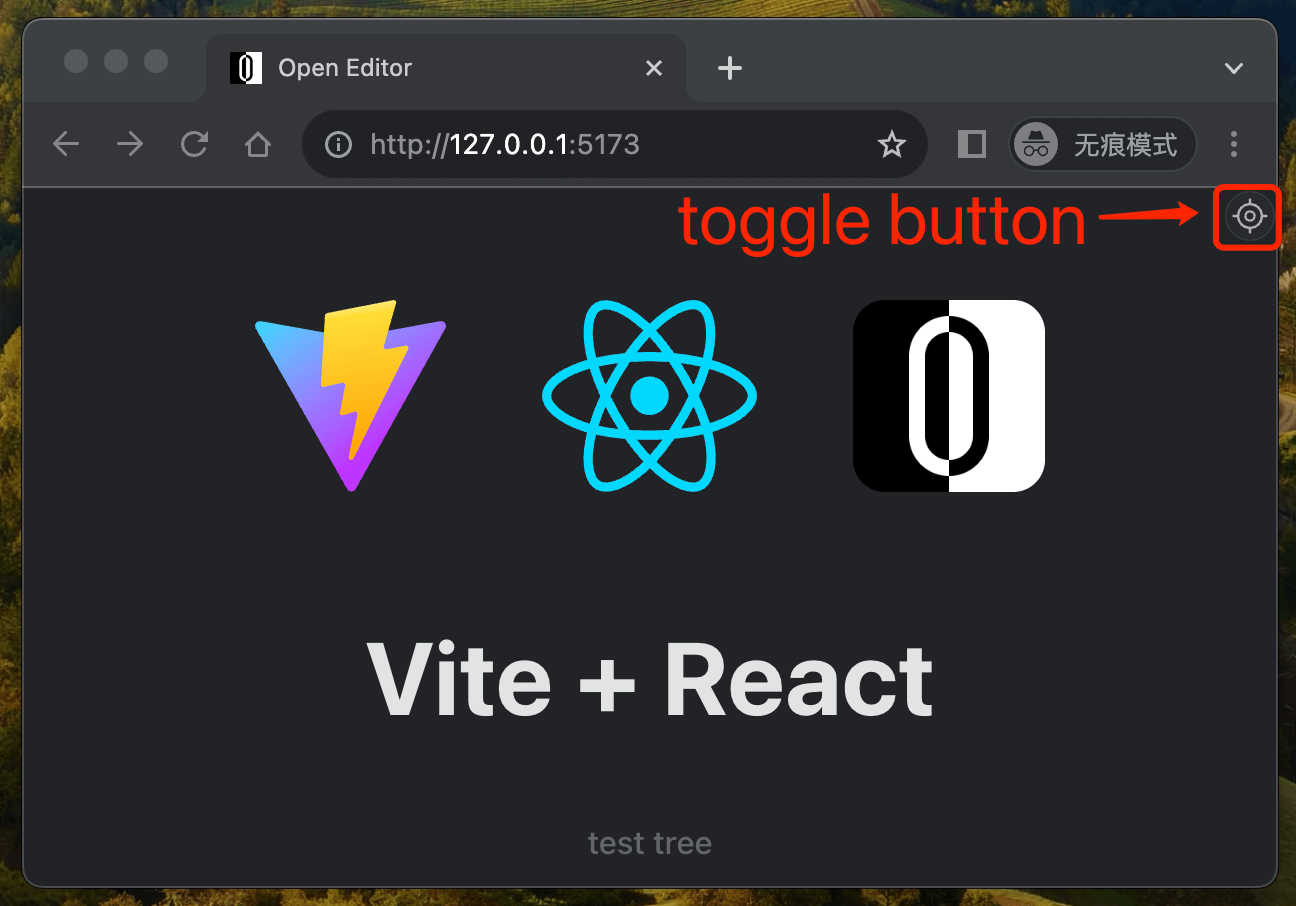
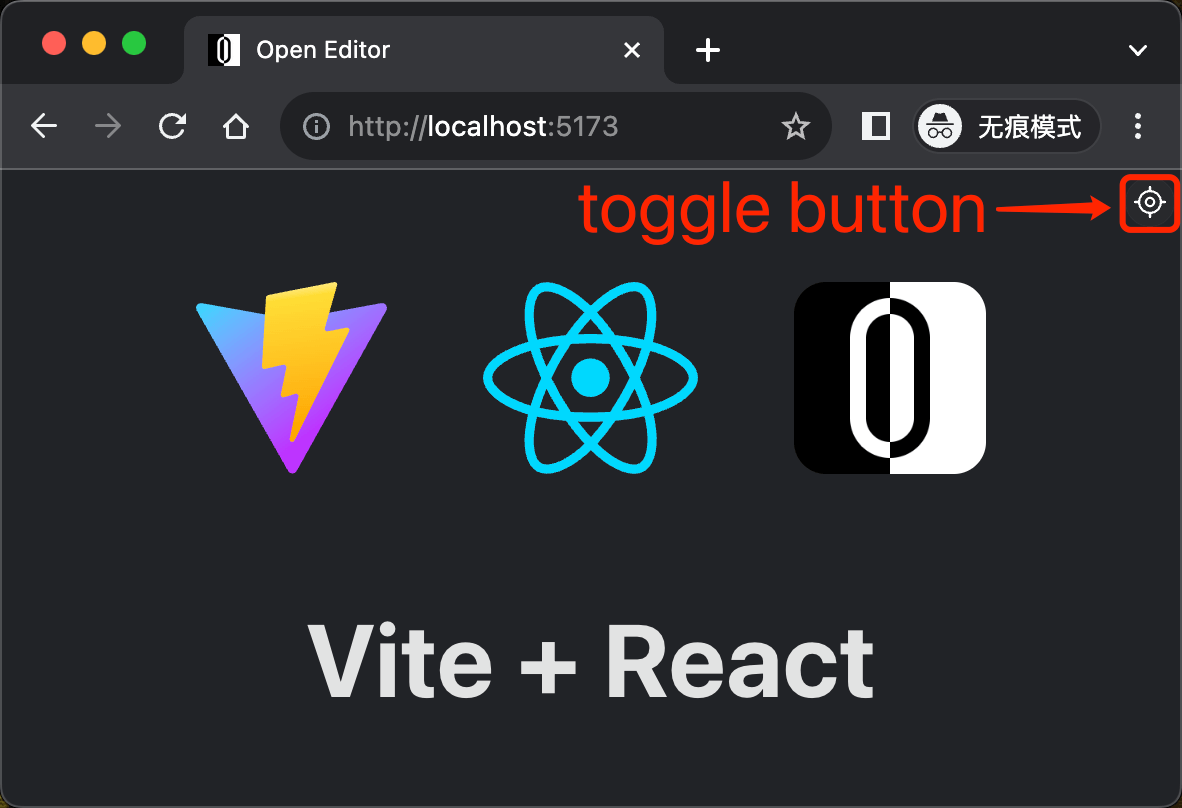
feat: Responsive touch screen

diff --git a/packages/client/src/elements/defineToggleElement.ts b/packages/client/src/elements/defineToggleElement.ts
@@ -23,7 +23,7 @@ const CSS = postcss`
   position: fixed;
   right: 0px;
   z-index: var(--z-index-toggle);
-  padding: 2px;
+  padding: 4px;
   font-size: 0px;
 }
 .overlay {
@@ -35,12 +35,9 @@ const CSS = postcss`
   display: none;
 }
 .button {
-  padding: 1px;
-  width: 24px;
-  height: 24px;
   color: var(--text);
   background: var(--fill);
-  backdrop-filter: blur(24px);
+  backdrop-filter: blur(16px);
   box-shadow: 0 0 1px var(--fill-2);
   border: none;
   outline: none;
@@ -62,6 +59,7 @@ export function defineToggleElement() {
     private overlay!: HTMLElement;
     private button!: HTMLElement;
     private dndPoint?: { pageY: number; posY: number };
+    private isTouchScreen!: boolean;
 
     constructor() {
       super();
@@ -85,14 +83,6 @@ export function defineToggleElement() {
           }),
         ),
       });
-
-      // Display larger button on the touch screen
-      if ('ontouchstart' in window || navigator.maxTouchPoints) {
-        applyStyle(this.button, {
-          width: '32px',
-          height: '32px',
-        });
-      }
     }
 
     attributeChangedCallback(_: never, __: never, newValue: string) {
@@ -104,10 +94,10 @@ export function defineToggleElement() {
     }
 
     connectedCallback() {
-      SafeAreaObserver.observe(this.setSafeRight);
-
       this.updatePosY_RAF();
+      this.checkTouchScreen();
 
+      SafeAreaObserver.observe(this.setSafeRight);
       on('click', this.dispatchToggle, {
         target: this.button,
       });
@@ -116,11 +106,11 @@ export function defineToggleElement() {
         wait: 300,
       });
       on('resize', this.updatePosY_RAF);
+      on('resize', this.checkTouchScreen);
     }
 
     disconnectedCallback() {
       SafeAreaObserver.unobserve(this.setSafeRight);
-
       off('click', this.dispatchToggle, {
         target: this.button,
       });
@@ -129,7 +119,23 @@ export function defineToggleElement() {
         wait: 300,
       });
       off('resize', this.updatePosY_RAF);
+      off('resize', this.checkTouchScreen);
     }
+
+    private checkTouchScreen = () => {
+      const isTouchScreen =
+        Boolean(navigator.maxTouchPoints) || 'ontouchstart' in window;
+      if (this.isTouchScreen !== (this.isTouchScreen = isTouchScreen)) {
+        // Display larger button on the touch screen
+        const pad = CSS_util.px(this.isTouchScreen ? 2 : 1);
+        const size = CSS_util.px(this.isTouchScreen ? 34 : 24);
+        applyStyle(this.button, {
+          padding: pad,
+          width: size,
+          height: size,
+        });
+      }
+    };
 
     private setSafeRight = (value: SafeAreaValue) => {
       applyStyle(this.root, {

diff --git a/packages/client/src/elements/defineTreeElement.ts b/packages/client/src/elements/defineTreeElement.ts
@@ -44,7 +44,7 @@ const CSS = postcss`
   transform: translate(-50%, -50%);
   color: var(--text);
   background: var(--fill);
-  backdrop-filter: blur(24px);
+  backdrop-filter: blur(16px);
   box-shadow: 0 0 1px var(--fill-2);
   border-radius: 14px;
 }
@@ -98,11 +98,11 @@ const CSS = postcss`
 }
 .tree {
   position: relative;
-  padding-left: 9px;
+  padding-left: 10px;
 }
 .line {
   position: absolute;
-  left: 10px;
+  left: 11px;
   top: 22px;
   opacity: 0.2;
   width: 1px;
@@ -338,21 +338,22 @@ export function defineTreeElement() {
     const { name, file, line = 1, column = 1 } = meta ?? {};
     const dataset = withFile ? toDataset(meta) : {};
     return jsx(
-      'div',
+      'span',
       {
         className: 'tag',
+        title: withFile ? 'Click to open in your editor' : null,
         ...dataset,
       },
       jsx('span', {
         className: 'name',
-        ...dataset,
         __text: `<${name}/>`,
+        ...dataset,
       }),
       withFile
         ? jsx('span', {
             className: 'file',
-            ...dataset,
             __text: `${file}:${line}:${column}`,
+            ...dataset,
           })
         : null,
     );

diff --git a/packages/client/src/resolve/util.ts b/packages/client/src/resolve/util.ts
@@ -8,12 +8,7 @@ export function ensureFileName(fileName: string) {
   return `/${fileName.replace(/^\//, '')}`;
 }
 
+const invalidRE = /(^\/home\/runner\/|\/node_modules\/)/;
 export function isValidFileName(fileName?: string): fileName is string {
-  if (fileName) {
-    return (
-      !fileName.startsWith('/home/runner/') &&
-      !ensureFileName(fileName).startsWith('/node_modules/')
-    );
-  }
-  return false;
+  return fileName ? !invalidRE.test(fileName) : false;
 }

diff --git a/packages/client/src/constants.ts b/packages/client/src/constants.ts
@@ -23,9 +23,9 @@ export const Theme = postcss`
 
   --z-index-overlay: 1000000;
   --z-index-error-overlay: 1000000;
-  --z-index-tooltip: 1000003;
-  --z-index-tree: 1000001;
   --z-index-toggle: 1000002;
+  --z-index-tooltip: 1000003;
+  --z-index-tree: 1000003;
 }
 `;
 

diff --git a/packages/client/src/elements/defineTooltipElement.ts b/packages/client/src/elements/defineTooltipElement.ts
@@ -28,7 +28,7 @@ const CSS = postcss`
   color: var(--text);
   visibility: hidden;
   background: var(--fill);
-  backdrop-filter: blur(24px);
+  backdrop-filter: blur(16px);
   box-shadow: 0 0 1px var(--fill-2);
   border-radius: 12px;
   pointer-events: none;

diff --git a/README.md b/README.md
@@ -112,7 +112,7 @@ Then click on the leaf node, and the location of the leaf node will automaticall
 
 Click again (shortcut key 1: ⌨ <kbd>Options ⌥</kbd> + <kbd>Command ⌘</kbd> + <kbd>O</kbd>, shortcut key 2: ⌨ <kbd>esc</kbd>, shortcut key 3: 🖱right click) button in the upper right corner of the browser will exit the inspector.
 
-<img width="500" src="./public/toggle-button-demo.png" alt="toggle button demo"/>
+<img width="500" src="./public/toggle-button-demo2.png" alt="toggle button demo"/>
 
 >
 

diff --git a/README.zh-CN.md b/README.zh-CN.md
@@ -112,7 +112,7 @@ npm run dev
 
 再次点击（快捷键1：⌨ <kbd>option ⌥</kbd> + <kbd>command ⌘</kbd> + <kbd>O</kbd>，快捷键2：⌨ <kbd>esc</kbd>，快捷键3：🖱 right-click）浏览器右上角的按钮就会退出检查器。
 
-<img width="500" src="./public/toggle-button-demo.png" alt="toggle button demo"/>
+<img width="500" src="./public/toggle-button-demo2.png" alt="toggle button demo"/>
 
 ## 框架
 

diff --git a/.changeset/cuddly-pots-peel.md b/.changeset/cuddly-pots-peel.md
@@ -1,0 +1,5 @@
+---
+'@open-editor/client': patch
+---
+
+Exclude node_modules completely

diff --git a/.changeset/proud-rats-agree.md b/.changeset/proud-rats-agree.md
@@ -1,0 +1,5 @@
+---
+'@open-editor/client': patch
+---
+
+Responsive touch screen
